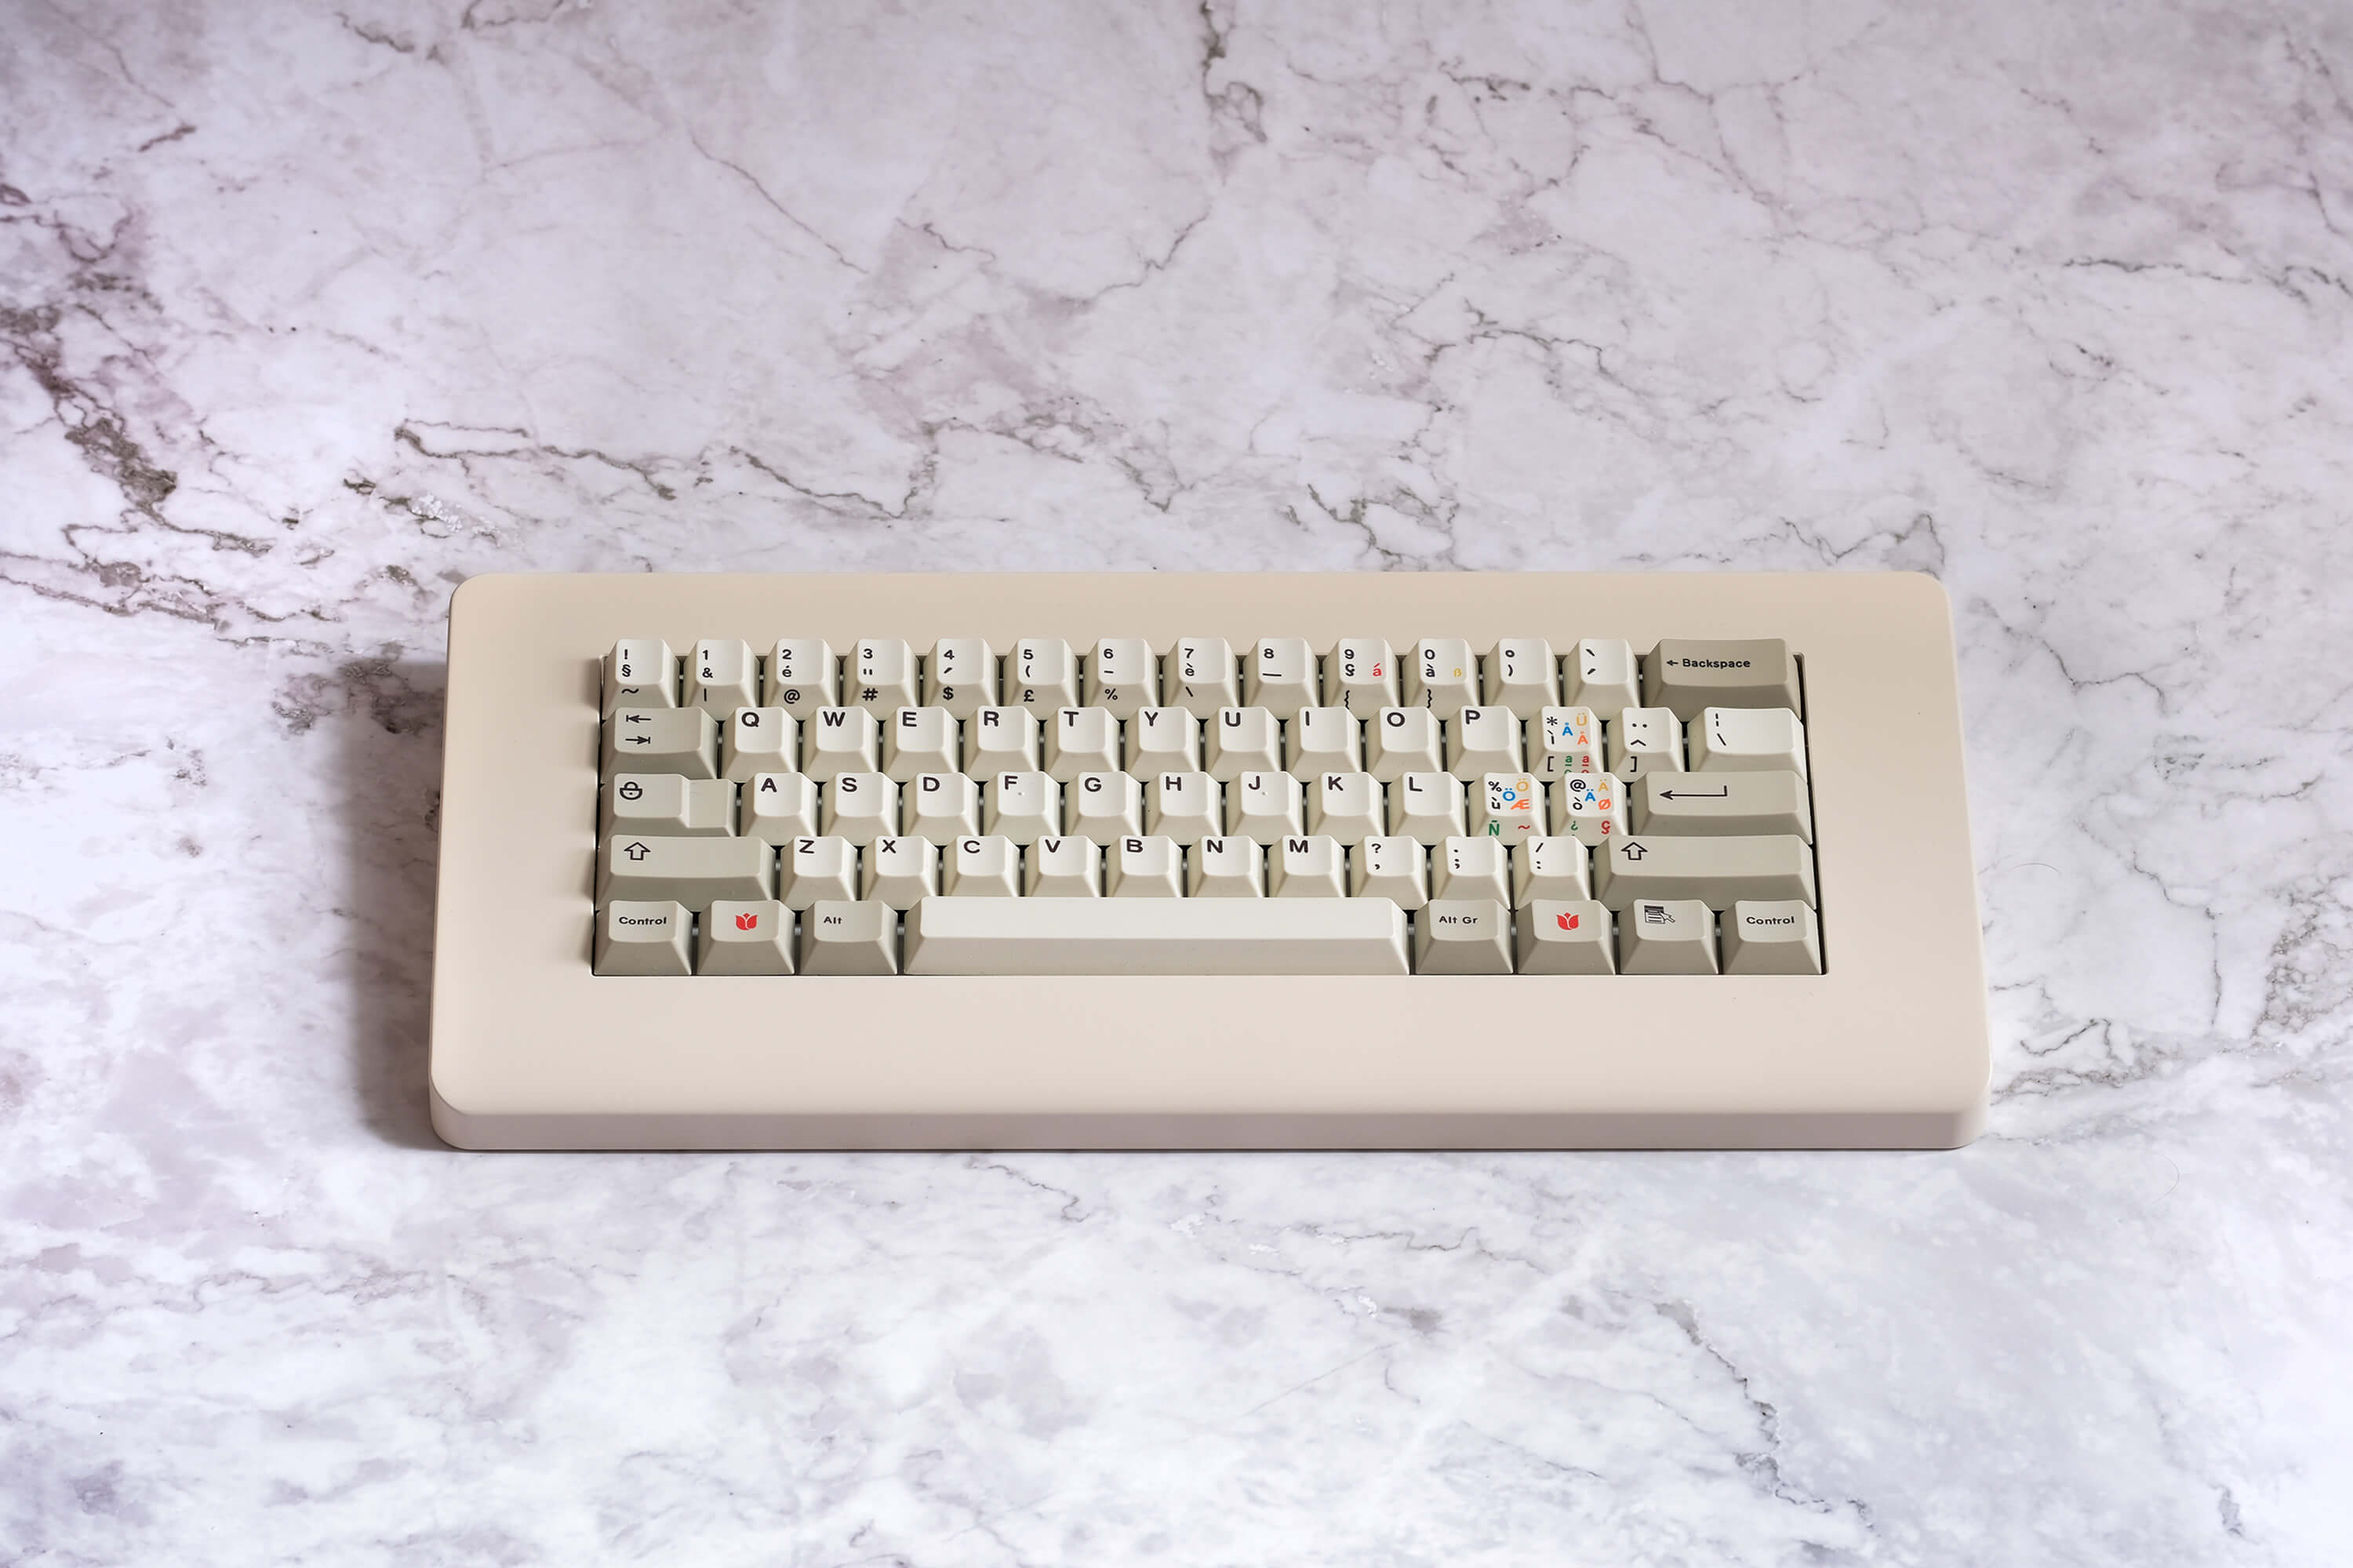
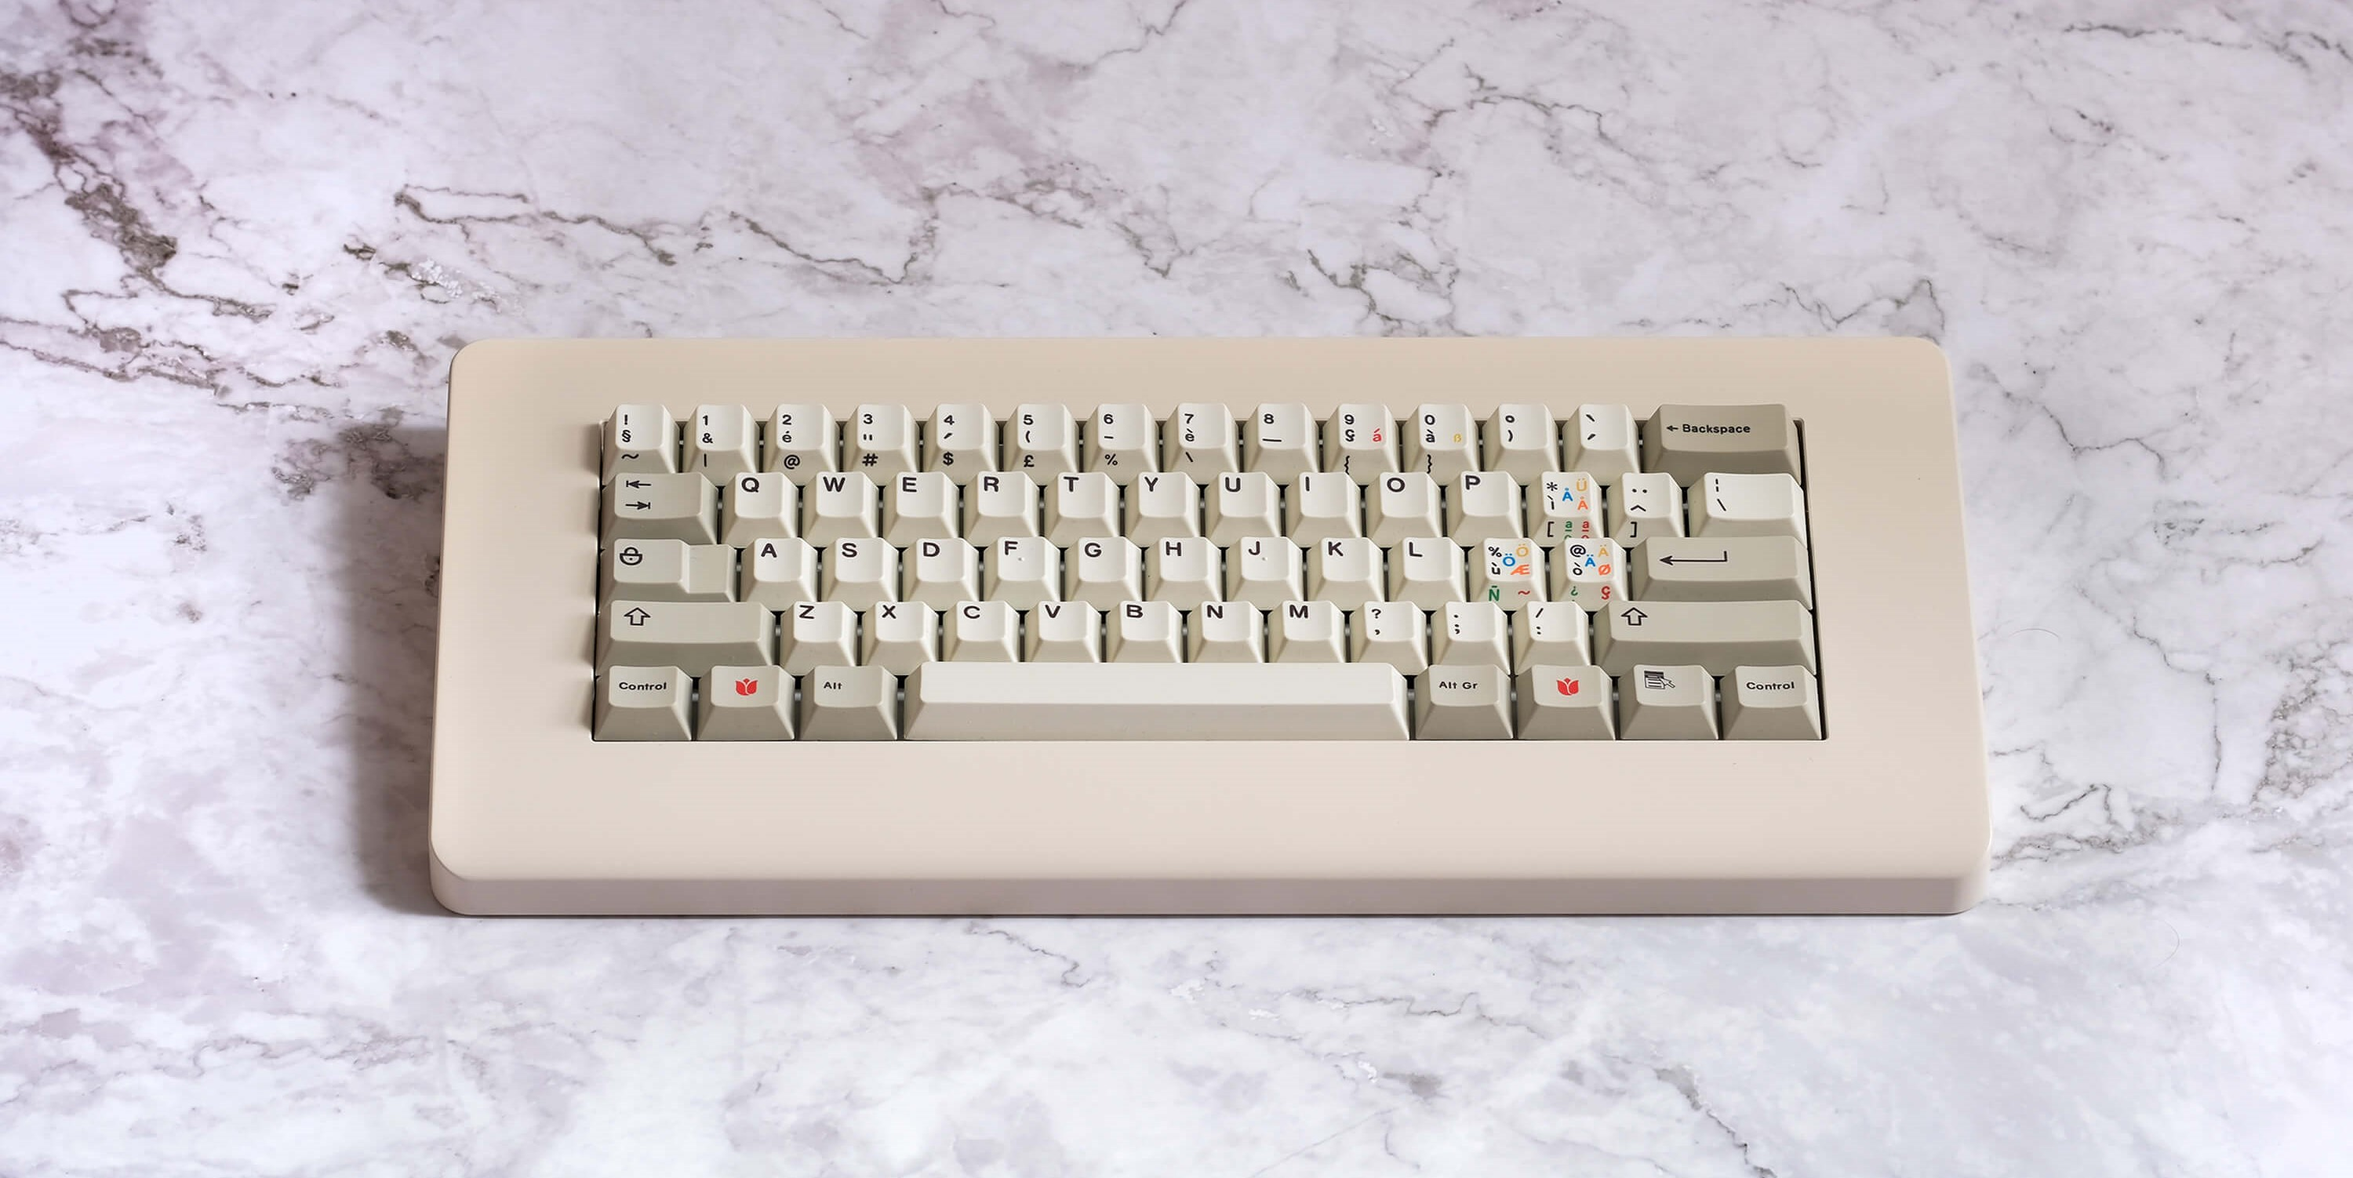
style for homepage

diff --git a/keymy/index.html b/keymy/index.html
@@ -17,12 +17,13 @@
                 <a href="index.html">Home</a>
                 <a href="customization.html">Keyboard Parts</a>
                 <a href="vendors.html">Vendors</a>
+                <a href="contactus.html">Contact us</a>
             </nav>
         </header>
 
         <div id="hero">
             <div id="hero-box">
-                <img id="hero-img" src="images/sasw.jpg" alt="65% keyboard">
+                <img id="hero-img" src="images/sonnet.jpg" alt="60% keyboard">
             </div>
             <section id="hero-msg">
                 <h1 class="home-title">Custom Keyboards</h1>
@@ -33,31 +34,26 @@
         <main>
             <section class="introduction-grid">
                 <h2>Why custom keyboards?</h2>
-                <p>You may be wondering what’s special about a custom mechanical keyboard. Well, when it comes to the utility of the keyboard, they are exactly the same as a standard membrane keyboard and/or mechanical keyboards sold by big companies such as Razer, Logitech, Corsair, etc. Then, what’s so special about custom mechanical keyboards? The answer is essentially in the name, the main benefit of them is that you get to customize what's in it. When you think about modern daily life, we spend a lot of time using our computers, a lot of people even use them while working or studying, from home, an office, or school. so, I ask you this question, why not put some effort, time and money into a tool that we use every day?
+                <p>You may be wondering what’s special about a custom mechanical keyboard. Well, when it comes to the utility of the keyboard, they are exactly the same as a standard membrane keyboard and/or mechanical keyboards sold by big companies such as Razer, Logitech, Corsair, etc. Then, what’s so special about custom mechanical keyboards? The answer is essentially in the name, the main benefit of them is that you get to customize what's in it.<br><br>When you think about modern daily life, we spend a lot of time using our computers, a lot of people even use them while working or studying, from home, an office, or school. so, I ask you this question, why not put some effort, time and money into a tool that we use every day?
                     Now that you have an idea of why you’d spend some time on your keyboard, let’s talk about what exactly custom mechanical keyboards offer:</p>
             </section>
             <section class="parts">
-                <ul>
-                    <li><h2>1. Customization:</h2> Custom mechanical keyboards allow users to choose their own switch type, keycaps, and other components, which allows for a personalized typing experience.</li>
-                    <img class="part-img" src="images/openenvoy.jpg" alt="parts of a keyboard">
-                </ul>
-                <ul>
-                    <li><h2>2. Build Quality:</h2> Custom mechanical keyboards are often built with higher-quality components, such as aluminum or stainless-steel cases, which make them more durable and longer-lasting than standard keyboards.</li>
-                    <img class="part-img" src="images/keycult.jpg" alt="back of a keyboard">
-                </ul>
-                <ul>
-                    <li><h2>3. Unique Designs:</h2> Custom mechanical keyboards can be designed to have unique layouts, colors, and styles, which can make them stand out and add a personal touch to a user's desk.</li>
-                    <img class="part-img" src="images/keebs2.jpg" alt="multiple keyboards together">
-                </ul>
-                <ul>
-                    <li><h2>4. Improved Typing Experience:</h2> Custom mechanical keyboards can offer a more tactile and satisfying typing experience, due to the use of mechanical switches and custom keycaps.</li>
-                </ul>
-                <ul>
-                    <li><h2>5. Enhanced Functionality:</h2> Custom mechanical keyboards can have additional features such as programmable macros, dedicated media controls, and custom lighting, which can improve the overall user experience.</li>
-                </ul>
+                <section class="parts1"><h2>1. Customization:</h2> <p>Custom mechanical keyboards allow users to choose their own switch type, keycaps, and <a class="p-link" href="images/openenvoy.jpg" target="_blank">other components</a>, which allows for a personalized typing experience.</p></section>
+                <img class="part-img1" src="images/openenvoy.jpg" alt="parts of a keyboard">
+                
+                <section class="parts2"><h2>2. Build Quality:</h2> <p>Custom mechanical keyboards are often built with <a class="p-link" href="images/keycult.jpg" target="_blank">higher-quality</a> components, such as aluminum or stainless-steel cases, which make them more durable and longer-lasting than standard keyboards.</p></section>
+                <img class="part-img2" src="images/keycult.jpg" alt="back of a keyboard">
+
+                <section class="parts3"><h2>3. Unique Designs:</h2> <p>Custom mechanical keyboards can be designed to have unique layouts, colors, and styles, which can make them <a class="p-link" href="images/keebs2.jpg" target="_blank">stand out</a> and add a personal touch to a user's desk.</p></section>
+                <img class="part-img3" src="images/keebs2.jpg" alt="multiple keyboards together">
+                
+                <section class="parts4"><h2>4. Improved Typing Experience:</h2> <p>Custom mechanical keyboards can offer a more tactile and satisfying typing experience, due to the use of mechanical switches and custom keycaps.</p></section>
+                
+                <section class="parts5"><h2>5. Enhanced Functionality:</h2> <p>Custom mechanical keyboards can have additional features such as programmable macros, dedicated media controls, and custom lighting, which can improve the overall user experience.</p></section>
+                
                 <h4 class="intro-summary">
                     In summary, custom mechanical keyboards offer users the ability to create a keyboard that is tailored to their specific needs and preferences. They are often more durable, better performing, and offer a more personalized experience compared to pre-made keyboards.
-                </h4>
+                
             </section>
         </main>
 
@@ -68,13 +64,13 @@
             <p><a href="vendors.html">Vendors</a></p>
             <div class="social">
                 <a href="https://facebook.com" target="_blank">
-                    <img>
+                    <img src="images/facebook.png" alt="Facebook logo">
                 </a>
                 <a href="https://twitter.com" target="_blank">
-                    <img>
+                    <img src="images/twitter.png" alt="Twitter logo">
                 </a>
                 <a href="https://instagram.com" target="_blank">
-                    <img>
+                    <img src="images/instagram.png" alt="Instagram logo">
                 </a>
             </div>
         </footer>

diff --git a/keymy/styles/styles.css b/keymy/styles/styles.css
@@ -3,27 +3,187 @@
 #content {
     max-width: 1600px;
     margin: 0 auto;
+}
+body {
+    background-color: #444639;
+    font-size: 22px;
     font-family: "Varela Round", Helvetica, sans-serif;
+    margin: 0;
+    padding: 0;
+    color: lightgrey;
 }
-
-img {
-    width: 800px;
-}
-
+/*This is the header/nav css*/
 header {
     display: grid;
     grid-template-columns: 150px auto;
+    background-color: #F0F0C9;
 }
-
 nav {
     display: flex;
     justify-content: space-around;
 }
-
+h2 {
+    margin: 0;
+}
 .logo {
-    width: 140px;
+    width: 80px;
+}
+#logo-link {
+    padding-top: 5px;
+    justify-self: center;
+    align-self: center;
+}
+nav a {
+    text-align: center;
+    color: #414E2C;
+    text-decoration: none;
+    padding: 35px;
+}
+nav a:hover {
+    opacity: .8;
+    background-color: #A69CAC;
+    color: #444639;
+}
+/*This is the hero section css*/
+#hero {
+    display: grid;
+    grid-template-columns: 1fr 3fr 3fr;
+    margin-top: 0px;
+}
+#hero-box {
+    grid-column: 1/4;
+    grid-row: 1/3;
+    z-index: -1;
+}
+#hero-msg {
+    grid-column: 3/4;
+    grid-row: 1/2;
+    margin-top: 100px;;
+}
+#hero-msg h4 {
+    color: #F0F0C9;
+}
+#hero-msg h1, #hero-msg h4 {
+    text-align: center;
+}
+#hero-img {
+    width: 100%;
+    align-self: center;
+    justify-self: center;
+}
+.home-title {
+    color: #F0F0C9;
+    font-size: 2em;
+    margin-top: 10px;
+}
+/*Main section css*/
+main {
+    margin-top: 100px;
+}
+main section {
+    text-align: center;
+}
+.p-link {
+    text-decoration: none;
+    color: #A69CAC;
+}
+.introduction-grid {
+    display: grid;
+    grid-template-columns: 1fr;
+}
+.parts {
+    display: grid;
+    grid-template-columns: 1fr 1fr 1fr 1fr 1fr 1fr 1fr 1fr 1fr 1fr;
+    row-gap: 50px;
+}
+.parts p {
+    text-align: center;
+    justify-self: center;
+}
+.parts1 {
+    grid-column: 2/4;
+    grid-row: 2/3;
+}
+.parts2 {
+    grid-column: 5/7;
+    grid-row: 2/3;
+}
+.parts3 {
+    grid-column: 8/10;
+    grid-row: 2/3;
+}
+.part-img1 {
+    grid-column: 2/4;
+    grid-row: 4/5;
+    width: 100%;
+    transition: transform .5s;
+    box-shadow: 5px 5px 10px #3c3e3c;
+    border: solid 5px #F0F0C9;
+}
+.part-img1:hover {
+    opacity: 1;
+    transform: scale(1.1);
+}
+.part-img2 {
+    grid-column: 5/7;
+    grid-row: 4/5;
+    width: 100%;
+    transition: transform .5s;
+    box-shadow: 5px 5px 10px #3c3e3c;
+    border: solid 5px #F0F0C9;
+}
+.part-img2:hover {
+    opacity: 1;
+    transform: scale(1.1);
+}
+.part-img3 {
+    grid-column: 8/10;
+    grid-row: 4/5;
+    width: 100%;
+    transition: transform .5s;
+    box-shadow: 5px 5px 10px #3c3e3c;
+    border: solid 5px #F0F0C9;
+}
+.part-img3:hover {
+    opacity: 1;
+    transform: scale(1.1);
+}
+.parts4 {
+    grid-column: 3/5;
+    grid-row: 6/7;
+}
+.parts5 {
+    grid-column: 7/9;
+    grid-row: 6/7;
+}
+.intro-summary {
+    grid-column: 2/10;
+    grid-row: 8/9;
 }
 
-#hero-img {
-    width: 1200px;
+/*This is the css for the footer*/
+footer {
+    background-color: #414E2C;
+    padding: 25px 50px;
+    margin-top: 100px;
+    display: flex;
+    justify-content: space-around;
+    align-items: center;
+}
+footer a {
+    color: beige;
+    text-decoration: none;
+}
+footer p {
+    font-size: 1.2em;
+}
+footer a:hover {
+    background-color: #A69CAC;
+    color: #444639;
+}
+footer p a:hover{
+    text-decoration: underline;
+}
+footer .social img {
+    padding-top: 15px;
 }
